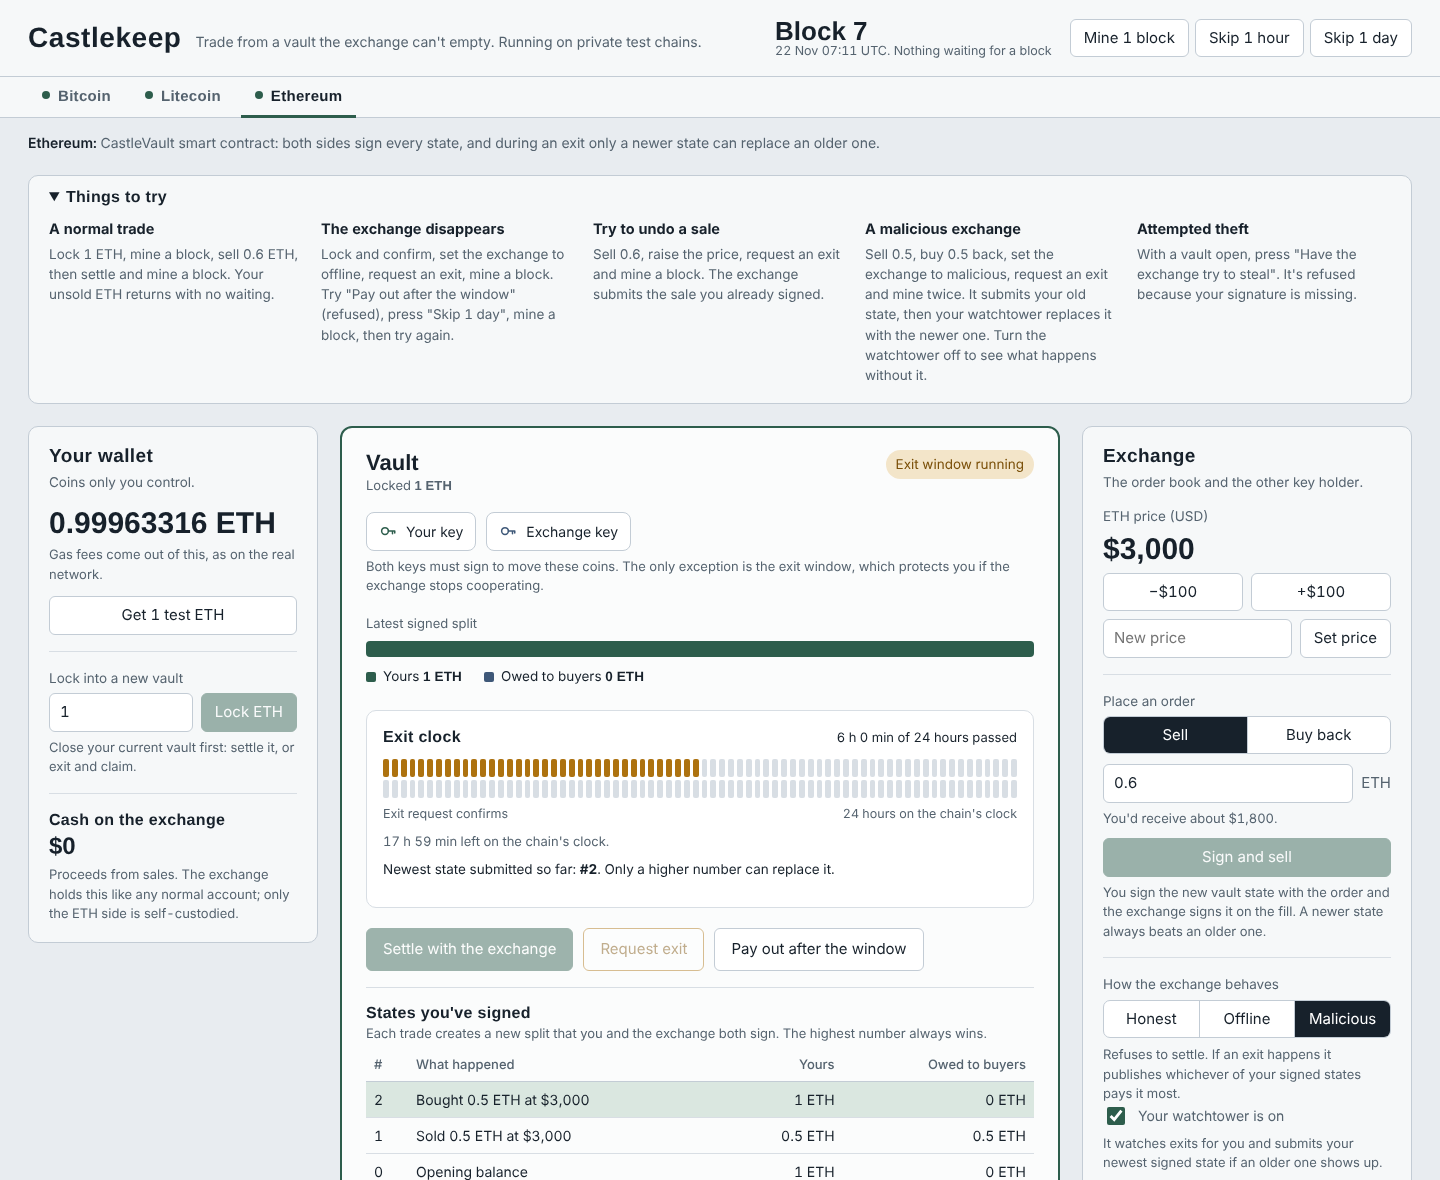
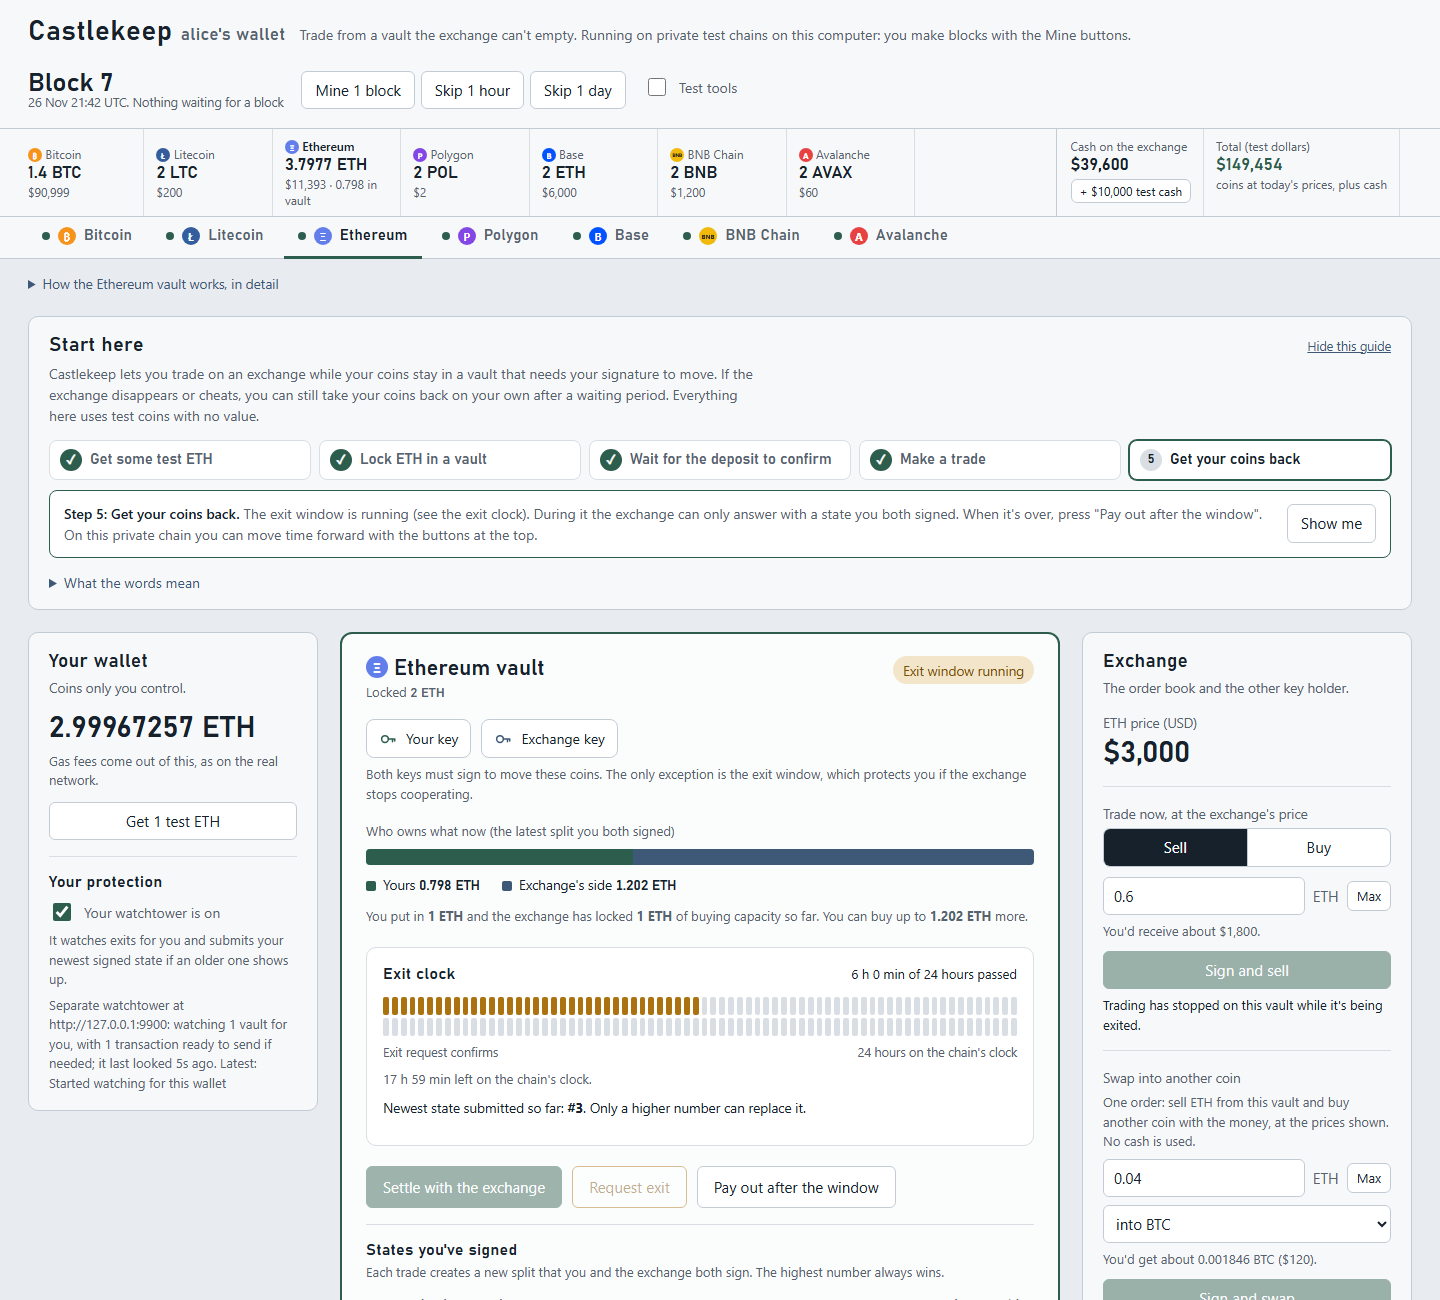
A steadier first-try guide, a fix for new EVM vaults, a new screenshot
- The page no longer breaks right after locking coins on an EVM chain in the
  separate wallet (the vault had no states list until the exchange registered
  it; the page and the wallet both treat that as an empty list now).
- Start here shows the five steps as one compact row, with the current step's
  explanation and button underneath. During an exit the last step follows it:
  the window running, then a button to take your coins. A trade step skipped
  because of an exit counts as done.
- ?chain=eth in the page's address opens that coin's tab.
- The account bar's notes wrap instead of being cut off.
- New README screenshot of the wallet page (Ethereum, exit window running).

Test networks only; not audited.

diff --git a/console/web/index.html b/console/web/index.html
@@ -182,15 +182,16 @@ details pre{background:var(--card);border:1px solid var(--rule-soft);border-radi
 .start-head{display:flex;justify-content:space-between;align-items:baseline;gap:12px;flex-wrap:wrap}
 .start h2{font:600 20px/1.2 var(--display);margin:0;letter-spacing:.02em}
 .start .intro{margin:6px 0 14px;color:var(--steel);font-size:14px;max-width:95ch}
-.steps{list-style:none;margin:0;padding:0;display:grid;grid-template-columns:repeat(auto-fit,minmax(200px,1fr));gap:12px}
-.steps li{border:1px solid var(--rule-soft);border-radius:8px;padding:10px 12px 12px;background:var(--card)}
+.steps{list-style:none;margin:0;padding:0;display:grid;grid-template-columns:repeat(auto-fit,minmax(170px,1fr));gap:8px}
+.steps li{border:1px solid var(--rule-soft);border-radius:8px;padding:8px 10px;background:var(--card)}
 .steps li.now{border-color:var(--pine);box-shadow:0 0 0 1px var(--pine)}
-.steps h3{font:600 15px/1.25 var(--display);margin:0 0 4px;display:flex;align-items:center;gap:8px;letter-spacing:.01em}
+.steps h3{font:600 14.5px/1.25 var(--display);margin:0;display:flex;align-items:center;gap:8px;letter-spacing:.01em}
 .steps .n{flex:none;display:inline-flex;align-items:center;justify-content:center;width:22px;height:22px;border-radius:50%;background:var(--rule-soft);font:600 12.5px var(--display)}
 .steps li.done .n{background:var(--pine-btn);color:#fff}
 .steps li.done h3{color:var(--steel)}
-.steps p{margin:0;font-size:13px;color:var(--steel)}
-.steps .btn{margin-top:9px}
+.step-now{margin-top:10px;padding:12px 14px;border:1px solid var(--pine);border-radius:8px;background:var(--card);display:flex;align-items:center;gap:16px;flex-wrap:wrap}
+.step-now p{margin:0;flex:1 1 380px;font-size:14px;color:var(--steel)}
+.step-now p b{color:var(--ink);font-weight:600}
 .start-done{margin:14px 0 0;font-size:14px;padding:10px 12px;background:var(--pine-tint);border-radius:8px}
 .gloss{margin-top:14px}
 .gloss dl{display:grid;grid-template-columns:minmax(110px,max-content) 1fr;gap:7px 16px;font-size:13.5px;margin:10px 0 4px}
@@ -269,7 +270,7 @@ details.model p{margin:6px 0 0}
 .acct .coins .cell[aria-current="true"] .k{color:var(--ink);font-weight:600}
 .acct .k{font-size:12px;color:var(--steel);white-space:nowrap;overflow:hidden;text-overflow:ellipsis}
 .acct .v{font:600 17px/1.25 var(--display);white-space:nowrap}
-.acct .d{font-size:12px;color:var(--steel);white-space:nowrap;overflow:hidden;text-overflow:ellipsis}
+.acct .d{font-size:12px;color:var(--steel);line-height:1.35}
 .acct .sums{display:flex;flex:none;border-left:1px solid var(--rule);padding-left:14px}
 .acct .sums .cell:last-child{border-right:0;margin-right:0}
 .acct .total .v{color:var(--pine)}
@@ -314,6 +315,7 @@ select{font:inherit;color:inherit;border:1px solid var(--rule);border-radius:6px
   If the exchange disappears or cheats, you can still take your coins back on your own after a waiting period.
   Everything here uses test coins with no value.</p>
   <ol class="steps" id="steps"></ol>
+  <div class="step-now" id="stepNow"></div>
   <p class="start-done" id="startDone" hidden></p>
   <details class="gloss"><summary>What the words mean</summary><dl id="gloss"></dl></details>
 </section>
@@ -600,15 +602,34 @@ function startSteps() {
     {done: !!v && v.status !== "funding", title: "Wait for the deposit to confirm",
      text: pub ? `It counts once it's in a block: ${blockWait(c)}.` : "On a private test chain you make the next block yourself.",
      btn: mine1 ? ["mine", mine1.label] : null},
-    {done: !!v && (v.states.length > 1 || closedV), title: "Make a trade",
+    {done: !!v && ((v.states || []).length > 1 || closedV || ["exit_pending", "exit_window", "ready"].includes(v.status)), title: "Make a trade",
      text: `Sell some ${t} for test dollars in the Exchange panel. ` + (c.evm
        ? "You and the exchange both sign the new split, and a newer one always replaces an older one."
        : "You sign the new split before the order goes out, so a filled trade can't be undone."),
      btn: ["show:orderBox", "Show me"]},
-    {done: closedV, title: "Get your coins back",
+    exitStep(v, c, pub, mine1) || {done: closedV, title: "Get your coins back",
      text: `Settle with the exchange: you both sign and your share comes back ${pub ? "in the next block" : "once you mine a block"}. If the exchange ever stops answering, request an exit instead: after the exit window you take your coins without it.`,
      btn: ["show:vaultActions", "Show me"]}
   ];
+}
+
+// The last step while an exit is under way: what happens next, and the button for it.
+function exitStep(v, c, pub, mine1) {
+  if (!v) return null;
+  const t = "Get your coins back";
+  switch (v.status) {
+  case "exit_pending":
+    return {done: false, title: t, text: `Your exit request is on its way: it starts the exit clock once it's in a block${pub ? "" : " (mine one)"}.`,
+      btn: mine1 ? ["mine", mine1.label] : ["show:vaultActions", "Show me"]};
+  case "exit_window":
+    return {done: false, title: t, text: `The exit window is running (see the exit clock). During it the exchange can only answer with a state you both signed. When it's over, press "${c.claimLabel}".`
+      + (pub ? "" : ` On this private chain you can move time forward with the buttons at the top.`),
+      btn: ["show:vaultActions", "Show me"]};
+  case "ready":
+    return {done: false, title: t, text: `The exit window is over: "${c.claimLabel}" takes your coins without the exchange.`,
+      btn: ["claim", c.claimLabel]};
+  }
+  return null;
 }
 
 function renderStart() {
@@ -616,13 +637,15 @@ function renderStart() {
   $("startShow").hidden = !startHidden;
   if (startHidden) return;
   const steps = startSteps(), now = steps.findIndex(s => !s.done);
-  setHTML("steps", steps.map((s, i) => `<li class="${s.done ? "done" : i === now ? "now" : ""}">
-    <h3><span class="n">${s.done ? "✓" : i + 1}</span>${esc(s.title)}</h3>
-    ${s.done ? "" : `<p>${esc(s.text)}</p>`}
-    ${!s.done && i === now && s.btn ? `<button class="btn ${s.btn[0].startsWith("show:") ? "" : "primary"}" data-step="${esc(s.btn[0])}">${esc(s.btn[1])}</button>` : ""}</li>`).join(""));
+  // A row of the five steps, and under it what to do in the current one.
+  setHTML("steps", steps.map((s, i) => `<li class="${s.done ? "done" : i === now ? "now" : ""}"${i === now ? ` aria-current="step"` : ""}>
+    <h3><span class="n">${s.done ? "✓" : i + 1}</span>${esc(s.title)}</h3></li>`).join(""));
+  const st = steps[now];
+  setHTML("stepNow", !st ? "" : `<p><b>Step ${now + 1}: ${esc(st.title)}.</b> ${esc(st.text)}</p>
+    ${st.btn ? `<button class="btn ${st.btn[0].startsWith("show:") ? "" : "primary"}" data-step="${esc(st.btn[0])}">${esc(st.btn[1])}</button>` : ""}`);
   const done = now < 0;
   // All five done: the steps fold away, leaving the next idea.
-  $("steps").hidden = done; $("startIntro").hidden = done;
+  $("steps").hidden = done; $("stepNow").hidden = done; $("startIntro").hidden = done;
   $("startDone").hidden = !done;
   if (done) {
     setHTML("startDone", `That's the whole cycle: coins in, a trade, coins out. Next, see what happens when the exchange misbehaves:
@@ -692,7 +715,8 @@ async function pollChains() {
   try {
     chains = await (await fetch("/api/chains")).json();
     if (!cur) {
-      const saved = (() => { try { return localStorage.getItem("ck-chain"); } catch (e) { return null; } })();
+      // ?chain=eth in the address picks the tab; otherwise the one used last.
+      const saved = new URLSearchParams(location.search).get("chain") || (() => { try { return localStorage.getItem("ck-chain"); } catch (e) { return null; } })();
       cur = (chains.find(c => c.id === saved) || chains.find(c => c.available) || chains[0]).id;
     }
     renderTabs();
@@ -948,10 +972,10 @@ function renderVault() {
   const revCell = s => !rev ? "" : `<td class="mono small">${s.secret
     ? `secret <span title="${esc(s.secret)}">${esc(s.secret.slice(0, 10))}…</span>`
     : `hash <span title="${esc(s.revHash)}">${esc((s.revHash || "").slice(0, 10))}…</span>`}</td>`;
-  const rows = v.states.slice().reverse().map((s, i) => `
+  const rows = (v.states || []).slice().reverse().map((s, i) => `
     <tr class="${i === 0 ? "latest" : ""}"><td>${s.index}</td><td>${esc(s.label)}</td>
     <td class="r">${coin(s.userSats, 4)}</td><td class="r">${coin(s.exchSats, 4)}</td>${revCell(s)}</tr>`).join("");
-  const held = rev ? v.states.filter(s => s.secret) : [];
+  const held = rev ? (v.states || []).filter(s => s.secret) : [];
   const revNote = !rev ? "" : `<p class="hint" style="margin:8px 0 0">${held.length
     ? `Revocation secrets you hold: <b>${held.map(s => "#" + s.index).join(", ")}</b>. Those states are replaced. If the exchange publishes one of them, your watchtower uses its secret to take the exchange's share (a penalty sweep). The exchange holds your secrets for the same states, so the same goes for you. For the latest state you only have the hash.`
     : "Revocation secrets you hold: none yet. Each time a newer state is signed, the exchange hands you the secret of the one it replaces."}</p>`;
@@ -1306,7 +1330,7 @@ document.addEventListener("click", e => {
   if (t.classList.contains("link")) document.querySelector(".insp").scrollIntoView({behavior: "smooth", block: "start"});
 });
 // getting started and test tools
-$("steps").addEventListener("click", e => {
+$("start").addEventListener("click", e => {
   const b = e.target.closest("[data-step]");
   if (!b) return;
   const [what, arg] = b.dataset.step.split(":");
@@ -1314,6 +1338,7 @@ $("steps").addEventListener("click", e => {
   if (what === "faucet") return act({action: "faucet"});
   if (what === "lock") return act({action: "lock", sats: Math.round(parseFloat(arg) * 1e8)});
   if (what === "mine") { const m = S.chain.mineButtons[0]; return act({action: "mine", n: m.n || 0, secs: m.secs || 0}); }
+  if (what === "claim") return act({action: "claim"});
 });
 $("startHide").onclick = () => { startHidden = true; remember("ck-start-hidden", true); renderStart(); };
 $("startShowBtn").onclick = () => { startHidden = false; remember("ck-start-hidden", false); renderStart(); };

diff --git a/console/split_apps_eth.go b/console/split_apps_eth.go
@@ -195,7 +195,7 @@ func (e *walletEthEngine) Snapshot() Snapshot {
 	}
 	s.Events = e.events
 	cv, _ := c.readVaultID(v.id)
-	vv := &VaultView{Locked: cv.amount, BestState: -1, PublishedState: -1, ClockTotal: we.delay,
+	vv := &VaultView{Locked: cv.amount, BestState: -1, PublishedState: -1, ClockTotal: we.delay, States: []StateView{},
 		UserDeposit: cv.userDep, ExchDeposit: cv.exchDep, FundPending: v.capPending, ExitSent: cv.exitStart != 0,
 		Address: c.contract + " (vault #" + v.id.String() + ")", CloseKind: v.closed, CloseTxid: v.closeTx,
 		Scripts: []Labelled{

diff --git a/console/README.md b/console/README.md
@@ -9,7 +9,7 @@ exchange between honest, offline and malicious.
 Every button creates real transactions, and the chain itself (a Bitcoin node, a Litecoin
 node, or the CastleVault smart contract on an EVM test node) decides whether each one is accepted or refused.
 
-![Castlekeep console on Ethereum](preview-eth.png)
+![Castlekeep: a wallet page on Ethereum, with the exit window running](preview-eth.png)
 
 > **Test networks only.** The coins have no value, nothing leaves your computer, and the
 > code hasn't been audited. Never use it with real coins.
@@ -449,7 +449,7 @@ EVM chains. Their coins have no value and come from public faucets.
 
 | Area | What it does |
 | --- | --- |
-| **Start here** | A first try in five steps, ticked off as you go: get test coins, lock them, wait for the deposit to confirm, make a trade, get your coins back. Each step has one button that does it or shows you where. Below it, **What the words mean** explains vault, state, settle, exit window, watchtower and the rest. **Hide this guide** puts it away (the page remembers). |
+| **Start here** | A first try in five steps, ticked off as you go: get test coins, lock them, wait for the deposit to confirm, make a trade, get your coins back. The steps sit in one row; under them, the current one says what to do and has one button that does it or shows you where. During an exit the last step follows it (the window running, then the button to take your coins). Once all five are done it folds to one line. Below it, **What the words mean** explains vault, state, settle, exit window, watchtower and the rest. **Hide this guide** puts it away (the page remembers). |
 | **Test tools** (switch at the top) | Off at first. It shows the tools for trying the safety features: how the exchange behaves (honest, offline, malicious), setting the price, **Have the exchange try to steal**, **Publish an older state yourself**, the exchange's wallet change, and the **Things to try with the test tools** recipes. With it off, the page still says when the exchange has been set to offline or malicious. |
 | **Account bar** | Every coin you hold, the shared cash balance (with **+ $10,000 test cash**) and the total value, on every tab. Pick a coin to go to its tab. On a narrow window only the totals show, with **Show coins**. |
 | **Chain tabs** | Switch between the coins. Each has a small coloured badge (drawn by the page, not the coin's official logo). A green dot means ready. Under them, **How the … vault works, in detail** opens the technical description. |

diff --git a/README.md b/README.md
@@ -8,7 +8,7 @@ and the exchange's key** to move. You trade against that locked balance as norma
 exchange disappears or turns hostile, you can always get your coins back on your own after
 a 144-block (about 24-hour) window.
 
-![Castlekeep console](console/preview-eth.png)
+![Castlekeep: a wallet page on Ethereum, with the exit window running](console/preview-eth.png)
 
 > **Test network only.** Everything here runs on a private Bitcoin test chain with
 > worthless test coins. The code has not been audited. Never use it with real bitcoin.
